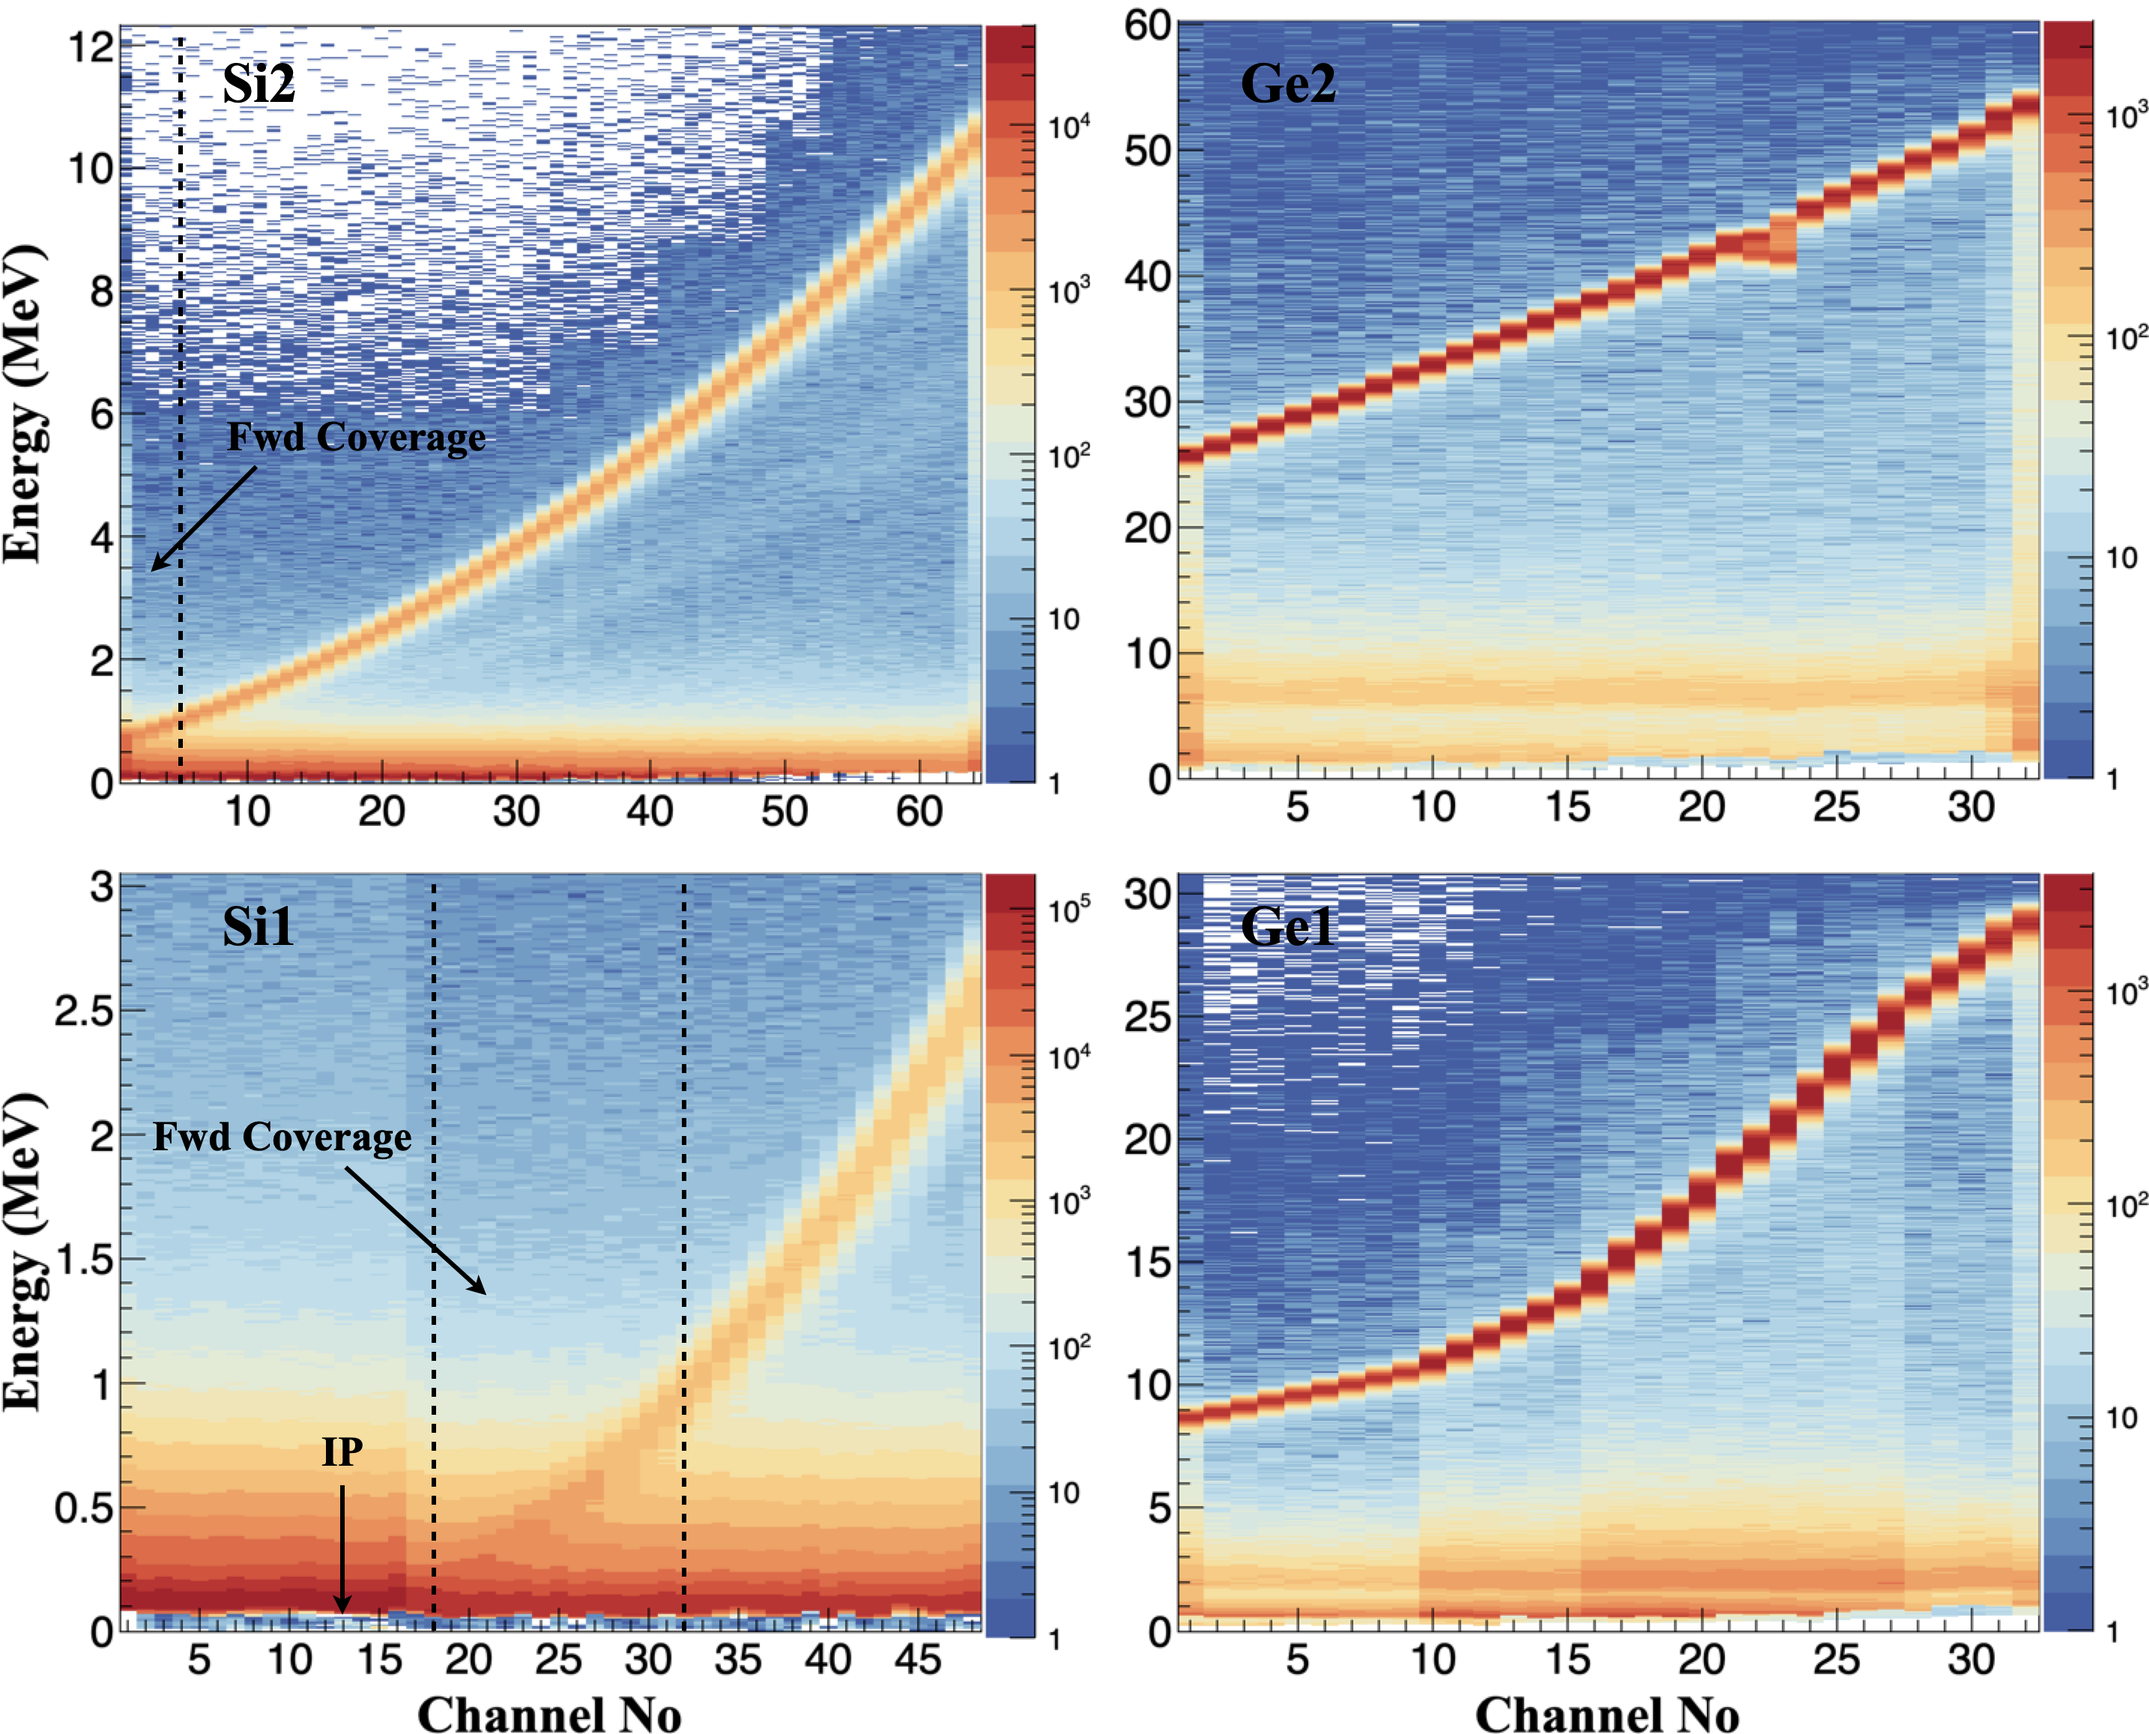
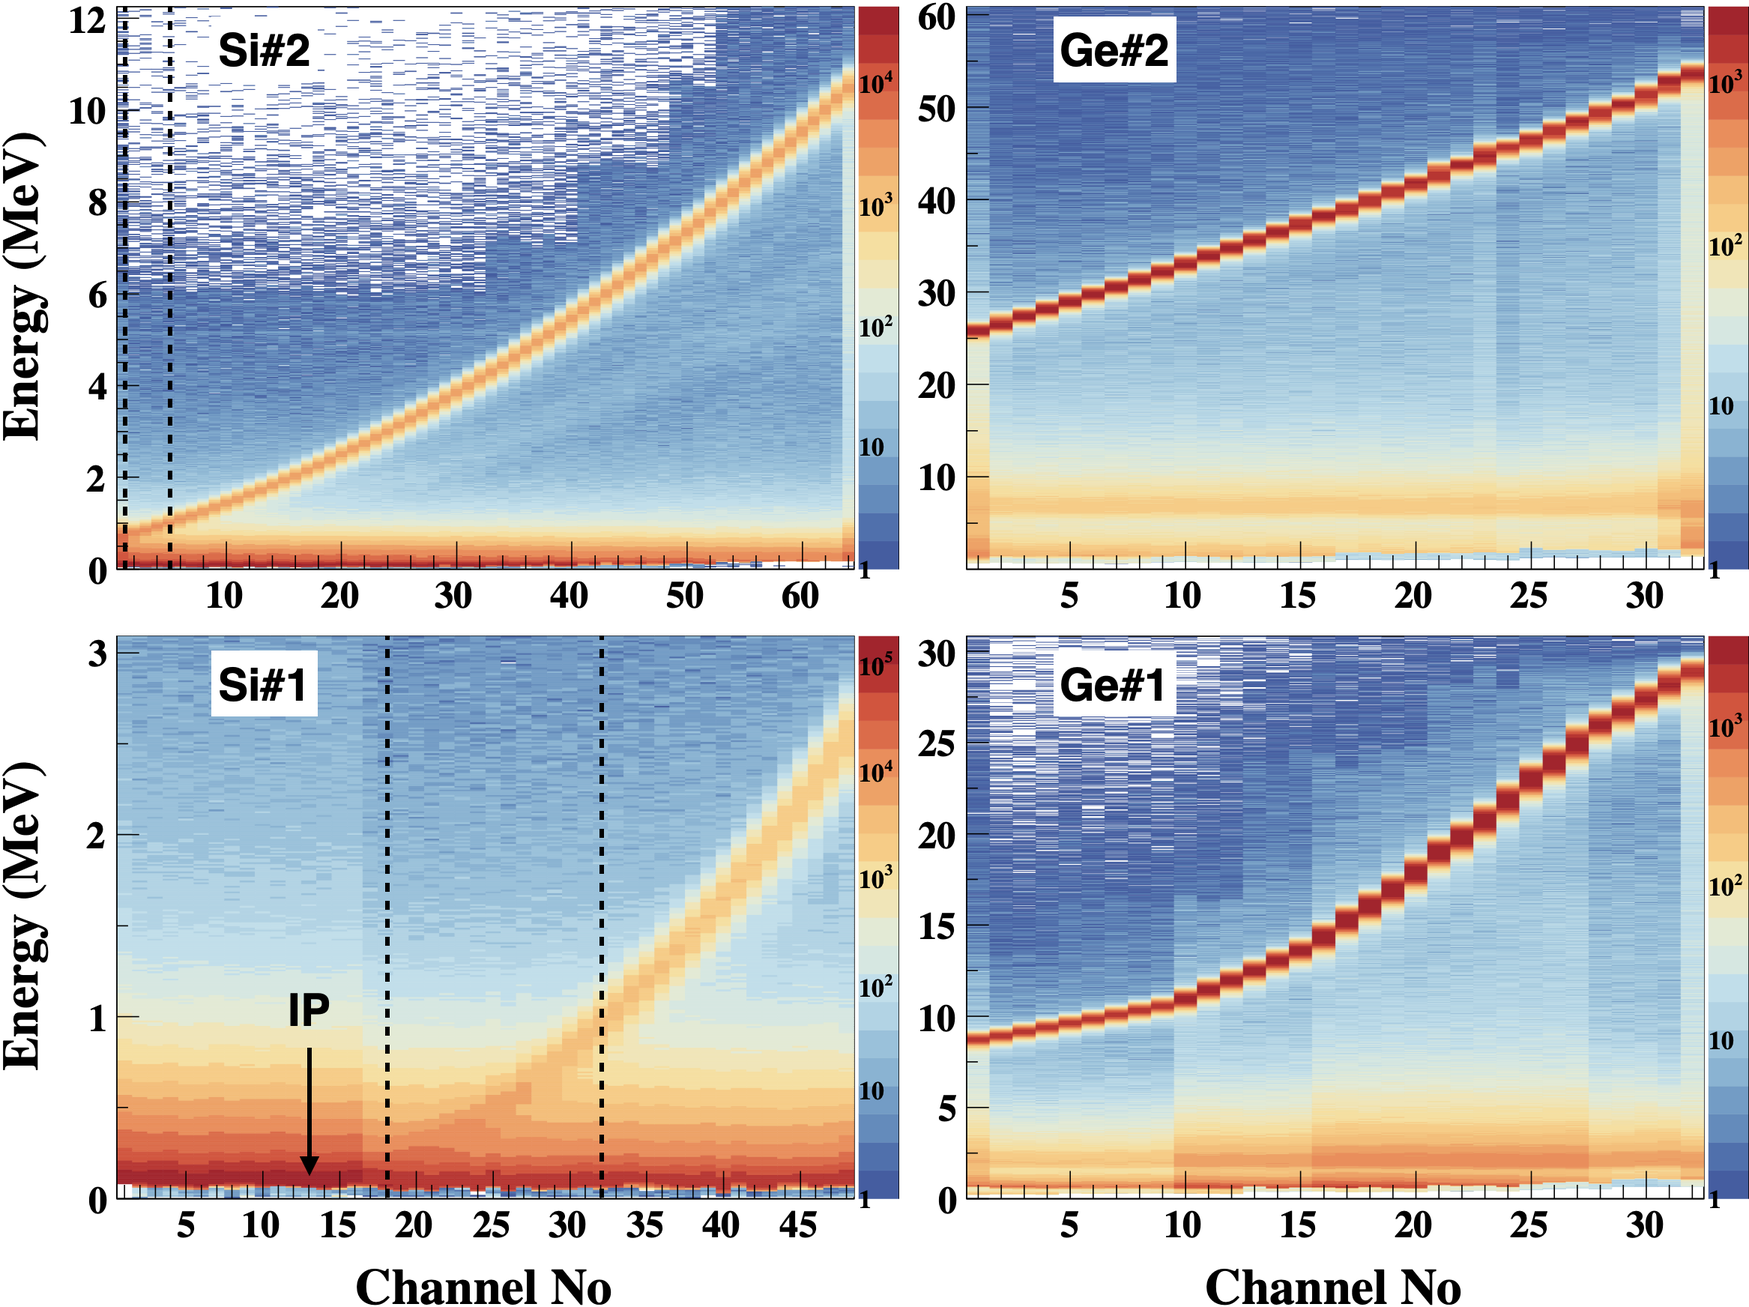
[Modify] figure: e_map with 2.2GeV

diff --git a/daq/nim.tex b/daq/nim.tex
@@ -607,12 +607,13 @@ Typical energy spectrums of the recoil detector are summarized in Fig.
 \ref{fig:e_map}.
 \begin{figure}[htb!]
   \centering
-  \includegraphics[width=0.5\textwidth]{./e_map.png}
-  \caption{Energy spectrums (after clustering) of all channels of the 4 recoil
-    sensors at 2.2 GeV/c.  IP indicates the channel which is in alignment with
-    the beam-target center. Channel 22 and 23 of Ge2 are channels with
-    malfunctional electronics.
-    % The group of channels of Si1 and Si2 which are fully covered by the forward detector are indicated.
+  \includegraphics[width=0.48\textwidth]{./e_map.png}
+  \caption{Energy spectrums (after clustering) of all channels of the four recoil
+    sensors obtained at $2.2 GeV/c$.
+    IP indicates the channel which is in alignment with
+    the beam-target center.
+    The group of channels which are fully covered by the forward detector are
+    also indicated by the dashed lines on Si1 and Si2.
   }
   \label{fig:e_map}
 \end{figure}
